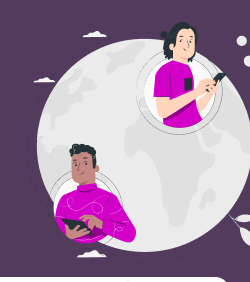
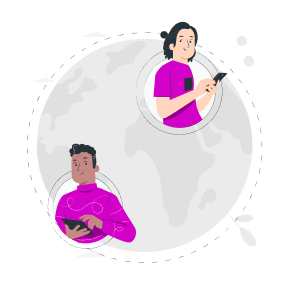
edit in onboarding two screen

diff --git a/lib/features/onboarding/onboarding_two/widgets/onboarding_two_appbar.dart b/lib/features/onboarding/onboarding_two/widgets/onboarding_two_appbar.dart
@@ -16,43 +16,40 @@ class OnboardingTwoAppbar extends StatelessWidget {
   Widget build(BuildContext context) {
     return Row(
       crossAxisAlignment: CrossAxisAlignment.start,
-      children: <Widget>[
-        Image.asset(ImagesManager.onboardingTwo),
-        Spacer(),
-        Padding(
-          padding:  EdgeInsets.only(left: 15.0.w,),
-          child: Align(
-            alignment: Alignment.centerLeft,
-            child: Container(
-              width: 95.w,
-              height: 35.h,
+      children: [
+        Image.asset(ImagesManager.onboardingTwo,width: 270,height: 280,),
+//horizontalSpace(22),
+        Align(
+          alignment: Alignment.centerLeft,
+          child: Container(
+            width: 95.w,
+            height: 35.h,
 
-              decoration: BoxDecoration(
-                color: ColorManager.white,
-                borderRadius: BorderRadius.circular(32),
-                border: Border.all(color: ColorManager.pink, width: 1),
-              ),
-              child: Material(
-                color: Colors.transparent,
-                child: InkWell(
-                  borderRadius: BorderRadius.circular(20),
-                  onTap: () {
-                    context.pushNamed(Routes.onBoardingThreeScreen);
-                  },
-                  child: Row(
-                    mainAxisAlignment: MainAxisAlignment.center,
-                    children: [
-                      horizontalSpace(10),
-                      Text(
-                        S.of(context).skip,
-                        style: StylesManager.font14MorePurpleMedium.copyWith(
-                          color: ColorManager.purple,
-                        ),
+            decoration: BoxDecoration(
+              color: ColorManager.white,
+              borderRadius: BorderRadius.circular(32),
+              border: Border.all(color: ColorManager.pink, width: 1),
+            ),
+            child: Material(
+              color: Colors.transparent,
+              child: InkWell(
+                borderRadius: BorderRadius.circular(20),
+                onTap: () {
+                  context.pushNamed(Routes.onBoardingThreeScreen);
+                },
+                child: Row(
+                  mainAxisAlignment: MainAxisAlignment.center,
+                  children: [
+                    horizontalSpace(10),
+                    Text(
+                      S.of(context).skip,
+                      style: StylesManager.font14MorePurpleMedium.copyWith(
+                        color: ColorManager.purple,
                       ),
-                      SizedBox(width: 6),
-                      Icon(Icons.arrow_right, size: 32, color:ColorManager.purple),
-                    ],
-                  ),
+                    ),
+                    SizedBox(width: 6),
+                    Icon(Icons.arrow_right, size: 32, color:ColorManager.purple),
+                  ],
                 ),
               ),
             ),
